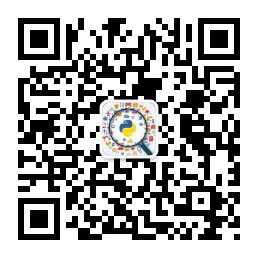
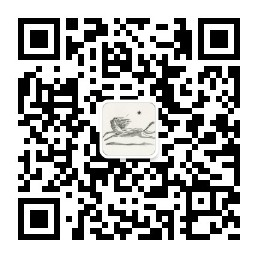
add article -20190107

Changed region(s): [[0.062, 0.062, 0.9302, 0.9302]]

diff --git a/about.html b/about.html
@@ -42,6 +42,12 @@ header-img: "img/post-bg-rwd.jpg"
     	<li><a href="mailto:turbobin.cao@gmail.com">turbobin.cao@gmail.com</a></li>
     	<li><a href="mailto:turbobin@foxmail.com">turbobin@foxmail.com</a></li>
     </ul>
+
+    <h5>More</h5>
+
+    <p>
+    	<img src="https://turbobin.github.io/img/qrcode.jpg" alt="">
+    </p>
 </div>
 
 <!-- English Version -->

diff --git a/_posts/2019-01-07-springcloud-and-eureka.md b/_posts/2019-01-07-springcloud-and-eureka.md
@@ -1,0 +1,210 @@
+---
+layout:     post
+title:      Spring Cloud 及 Eureka 注册中心
+subtitle:   
+date:       2019-01-07
+author:     turbobin
+header-img: img/post-bg-debug.jpg
+catalog: true
+tags:
+    - [微服务, spring cloud]
+---
+### 简述 ###
+Spring Cloud是微服务的“全家桶”，包含了很多的子项目，每一个子项目都是一种微服务的解决方案，它利用Spring Boot的开发风格对各种比较成熟的服务框架进行了二次封装，最终留出了一套简单易用的开发工具包。
+
+#### Spring Cloud子项目介绍 ####
+
+![]({{site.url}}/img/java/springcloud-01.png)
+#### Spring Cloud版本介绍 ####
+Spring Cloud版本并没有像Spring Boot那样采用1.x.x，2.x.x的方式，而是采用Dalston SR5、Edgware SR5、Edgware SR5这样的名称，这是因为，Spring Cloud不像Spring社区其他项目那样相对独立，它是拥有诸多子项目的大型综合项目. 可以说是对微服务架构解决方案的综合套件的组合，其包含的各个子项目也都是进行独立的更新和迭代，各自都维护自己的发布版本号.因此每一个Spring Cloud的版本都会包含多个不同版本的子项目，为了管理每一个版本的子项目清单，避免Spring Cloud的版本号与其子项目的版本号相混淆，没有采用版本号的方式，而是通过命名的方式。
+
+**各项目版本对照：**
+<table class="tableblock frame-all grid-all spread">
+<caption class="title" align="center">Table 1. Release train Spring Boot compatibility</caption>
+<colgroup>
+<col style="width: 30%;">
+<col style="width: 30%;">
+</colgroup>
+<thead>
+<tr>
+<th class="tableblock halign-left valign-top">Release Train</th>
+<th class="tableblock halign-left valign-top">Boot Version</th>
+</tr>
+</thead>
+<tbody>
+<tr>
+<td class="tableblock halign-left valign-top"><p class="tableblock">Greenwich</p></td>
+<td class="tableblock halign-left valign-top"><p class="tableblock">2.1.x</p></td>
+</tr>
+<tr>
+<td class="tableblock halign-left valign-top"><p class="tableblock">Finchley</p></td>
+<td class="tableblock halign-left valign-top"><p class="tableblock">2.0.x</p></td>
+</tr>
+<tr>
+<td class="tableblock halign-left valign-top"><p class="tableblock">Edgware</p></td>
+<td class="tableblock halign-left valign-top"><p class="tableblock">1.5.x</p></td>
+</tr>
+<tr>
+<td class="tableblock halign-left valign-top"><p class="tableblock">Dalston</p></td>
+<td class="tableblock halign-left valign-top"><p class="tableblock">1.5.x</p></td>
+</tr>
+</tbody>
+</table>
+
+<table class="tableblock frame-all grid-all spread">
+<caption class="title">Table 2. Release train contents</caption>
+<colgroup>
+<col style="width: 25%;">
+<col style="width: 20%;">
+<col style="width: 20%;">
+<col style="width: 35%;">
+</colgroup>
+<thead>
+<tr>
+<th class="tableblock halign-left valign-top">Component</th>
+<th class="tableblock halign-left valign-top">Edgware.SR5</th>
+<th class="tableblock halign-left valign-top">Finchley.SR2</th>
+<th class="tableblock halign-left valign-top">Finchley.BUILD-SNAPSHOT</th>
+</tr>
+</thead>
+<tbody>
+<tr>
+<td class="tableblock halign-left valign-top"><p class="tableblock">spring-cloud-aws</p></td>
+<td class="tableblock halign-left valign-top"><p class="tableblock">1.2.3.RELEASE</p></td>
+<td class="tableblock halign-left valign-top"><p class="tableblock">2.0.1.RELEASE</p></td>
+<td class="tableblock halign-left valign-top"><p class="tableblock">2.0.1.BUILD-SNAPSHOT</p></td>
+</tr>
+<tr>
+<td class="tableblock halign-left valign-top"><p class="tableblock">spring-cloud-bus</p></td>
+<td class="tableblock halign-left valign-top"><p class="tableblock">1.3.3.RELEASE</p></td>
+<td class="tableblock halign-left valign-top"><p class="tableblock">2.0.0.RELEASE</p></td>
+<td class="tableblock halign-left valign-top"><p class="tableblock">2.0.1.BUILD-SNAPSHOT</p></td>
+</tr>
+<tr>
+<td class="tableblock halign-left valign-top"><p class="tableblock">spring-cloud-cli</p></td>
+<td class="tableblock halign-left valign-top"><p class="tableblock">1.4.1.RELEASE</p></td>
+<td class="tableblock halign-left valign-top"><p class="tableblock">2.0.0.RELEASE</p></td>
+<td class="tableblock halign-left valign-top"><p class="tableblock">2.0.1.BUILD-SNAPSHOT</p></td>
+</tr>
+<tr>
+<td class="tableblock halign-left valign-top"><p class="tableblock">spring-cloud-commons</p></td>
+<td class="tableblock halign-left valign-top"><p class="tableblock">1.3.5.RELEASE</p></td>
+<td class="tableblock halign-left valign-top"><p class="tableblock">2.0.2.RELEASE</p></td>
+<td class="tableblock halign-left valign-top"><p class="tableblock">2.0.2.BUILD-SNAPSHOT</p></td>
+</tr>
+<tr>
+<td class="tableblock halign-left valign-top"><p class="tableblock">spring-cloud-contract</p></td>
+<td class="tableblock halign-left valign-top"><p class="tableblock">1.2.6.RELEASE</p></td>
+<td class="tableblock halign-left valign-top"><p class="tableblock">2.0.2.RELEASE</p></td>
+<td class="tableblock halign-left valign-top"><p class="tableblock">2.0.2.BUILD-SNAPSHOT</p></td>
+</tr>
+<tr>
+<td class="tableblock halign-left valign-top"><p class="tableblock">spring-cloud-config</p></td>
+<td class="tableblock halign-left valign-top"><p class="tableblock">1.4.5.RELEASE</p></td>
+<td class="tableblock halign-left valign-top"><p class="tableblock">2.0.2.RELEASE</p></td>
+<td class="tableblock halign-left valign-top"><p class="tableblock">2.0.2.BUILD-SNAPSHOT</p></td>
+</tr>
+<tr>
+<td class="tableblock halign-left valign-top"><p class="tableblock">spring-cloud-netflix</p></td>
+<td class="tableblock halign-left valign-top"><p class="tableblock">1.4.6.RELEASE</p></td>
+<td class="tableblock halign-left valign-top"><p class="tableblock">2.0.2.RELEASE</p></td>
+<td class="tableblock halign-left valign-top"><p class="tableblock">2.0.2.BUILD-SNAPSHOT</p></td>
+</tr>
+<tr>
+<td class="tableblock halign-left valign-top"><p class="tableblock">spring-cloud-security</p></td>
+<td class="tableblock halign-left valign-top"><p class="tableblock">1.2.3.RELEASE</p></td>
+<td class="tableblock halign-left valign-top"><p class="tableblock">2.0.1.RELEASE</p></td>
+<td class="tableblock halign-left valign-top"><p class="tableblock">2.0.1.BUILD-SNAPSHOT</p></td>
+</tr>
+<tr>
+<td class="tableblock halign-left valign-top"><p class="tableblock">spring-cloud-cloudfoundry</p></td>
+<td class="tableblock halign-left valign-top"><p class="tableblock">1.1.2.RELEASE</p></td>
+<td class="tableblock halign-left valign-top"><p class="tableblock">2.0.1.RELEASE</p></td>
+<td class="tableblock halign-left valign-top"><p class="tableblock">2.0.1.BUILD-SNAPSHOT</p></td>
+</tr>
+<tr>
+<td class="tableblock halign-left valign-top"><p class="tableblock">spring-cloud-consul</p></td>
+<td class="tableblock halign-left valign-top"><p class="tableblock">1.3.5.RELEASE</p></td>
+<td class="tableblock halign-left valign-top"><p class="tableblock">2.0.1.RELEASE</p></td>
+<td class="tableblock halign-left valign-top"><p class="tableblock">2.0.2.BUILD-SNAPSHOT</p></td>
+</tr>
+<tr>
+<td class="tableblock halign-left valign-top"><p class="tableblock">spring-cloud-sleuth</p></td>
+<td class="tableblock halign-left valign-top"><p class="tableblock">1.3.5.RELEASE</p></td>
+<td class="tableblock halign-left valign-top"><p class="tableblock">2.0.2.RELEASE</p></td>
+<td class="tableblock halign-left valign-top"><p class="tableblock">2.0.2.BUILD-SNAPSHOT</p></td>
+</tr>
+<tr>
+<td class="tableblock halign-left valign-top"><p class="tableblock">spring-cloud-stream</p></td>
+<td class="tableblock halign-left valign-top"><p class="tableblock">Ditmars.SR4</p></td>
+<td class="tableblock halign-left valign-top"><p class="tableblock">Elmhurst.SR1</p></td>
+<td class="tableblock halign-left valign-top"><p class="tableblock">Elmhurst.BUILD-SNAPSHOT</p></td>
+</tr>
+<tr>
+<td class="tableblock halign-left valign-top"><p class="tableblock">spring-cloud-zookeeper</p></td>
+<td class="tableblock halign-left valign-top"><p class="tableblock">1.2.2.RELEASE</p></td>
+<td class="tableblock halign-left valign-top"><p class="tableblock">2.0.0.RELEASE</p></td>
+<td class="tableblock halign-left valign-top"><p class="tableblock">2.0.1.BUILD-SNAPSHOT</p></td>
+</tr>
+<tr>
+<td class="tableblock halign-left valign-top"><p class="tableblock">spring-boot</p></td>
+<td class="tableblock halign-left valign-top"><p class="tableblock">1.5.16.RELEASE</p></td>
+<td class="tableblock halign-left valign-top"><p class="tableblock">2.0.6.RELEASE</p></td>
+<td class="tableblock halign-left valign-top"><p class="tableblock">2.0.7.BUILD-SNAPSHOT</p></td>
+</tr>
+<tr>
+<td class="tableblock halign-left valign-top"><p class="tableblock">spring-cloud-task</p></td>
+<td class="tableblock halign-left valign-top"><p class="tableblock">1.2.3.RELEASE</p></td>
+<td class="tableblock halign-left valign-top"><p class="tableblock">2.0.0.RELEASE</p></td>
+<td class="tableblock halign-left valign-top"><p class="tableblock">2.0.1.BUILD-SNAPSHOT</p></td>
+</tr>
+<tr>
+<td class="tableblock halign-left valign-top"><p class="tableblock">spring-cloud-vault</p></td>
+<td class="tableblock halign-left valign-top"><p class="tableblock">1.1.2.RELEASE</p></td>
+<td class="tableblock halign-left valign-top"><p class="tableblock">2.0.2.RELEASE</p></td>
+<td class="tableblock halign-left valign-top"><p class="tableblock">2.0.2.BUILD-SNAPSHOT</p></td>
+</tr>
+<tr>
+<td class="tableblock halign-left valign-top"><p class="tableblock">spring-cloud-gateway</p></td>
+<td class="tableblock halign-left valign-top"><p class="tableblock">1.0.2.RELEASE</p></td>
+<td class="tableblock halign-left valign-top"><p class="tableblock">2.0.2.RELEASE</p></td>
+<td class="tableblock halign-left valign-top"><p class="tableblock">2.0.2.BUILD-SNAPSHOT</p></td>
+</tr>
+<tr>
+<td class="tableblock halign-left valign-top"><p class="tableblock">spring-cloud-openfeign</p></td>
+<td class="tableblock halign-left valign-top"></td>
+<td class="tableblock halign-left valign-top"><p class="tableblock">2.0.2.RELEASE</p></td>
+<td class="tableblock halign-left valign-top"><p class="tableblock">2.0.2.BUILD-SNAPSHOT</p></td>
+</tr>
+<tr>
+<td class="tableblock halign-left valign-top"><p class="tableblock">spring-cloud-function</p></td>
+<td class="tableblock halign-left valign-top"><p class="tableblock">1.0.1.RELEASE</p></td>
+<td class="tableblock halign-left valign-top"><p class="tableblock">1.0.0.RELEASE</p></td>
+<td class="tableblock halign-left valign-top"><p class="tableblock">1.0.1.BUILD-SNAPSHOT</p></td>
+</tr>
+</tbody>
+</table>
+
+>Finchley builds and works with Spring Boot 2.0.x, and is not expected to work with Spring Boot 1.5.x.  
+Note: The Dalston release train will reach end-of-life in December 2018. Edgware will follow the end-of-life cycle of Spring Boot 1.5.x.  
+The Dalston and Edgware release trains build on Spring Boot 1.5.x, and are not expected to work with Spring Boot 2.0.x.
+
+从官网介绍可知，基于Spring Boot 2.0.x的Spring Cloud只能用Finchley版本，Spring Boot 1.5.x只能用Spring Cloud Dalston和Edgware版本。
+当前最新稳定版本：
+![]({{site.url}}/img/java/springcloud-02.png)
+
+### Eureka 注册中心 ###
+Spring Cloud提供了多种注册中心的支持，如：Eureka、ZooKeeper等。官方推荐使用Eureka。
+Spring Cloud Eureka是Spring Cloud Netflix微服务套件中的一部分，它基于Netflix Eureka做了二次封装。主要负责完成微服务架构中的服务治理功能。
+原理图如下：
+![]({{site.url}}/img/java/eureka-01.png)
+
+Eureka包含两个组件：Eureka Server和Eureka Client。
+* Eureka Server提供服务注册服务，各个节点启动后，会在Eureka Server中进行注册，这样EurekaServer中的服务注册表中将会存储所有可用服务节点的信息，服务节点的信息可以在界面中直观的看到。
+* Eureka Client是一个java客户端，用于简化与Eureka Server的交互在应用启动后，将会向Eureka Server发送心跳,默认周期为30秒，如果Eureka Server在多个心跳周期内没有接收到某个节点的心跳，Eureka Server将会从服务注册表中把这个服务节点移除(默认90秒)。
+
+Eureka Server之间通过复制的方式完成数据的同步，Eureka还提供了客户端缓存机制，即使所有的Eureka Server都挂掉，客户端依然可以利用缓存中的信息消费其他服务的API。综上，Eureka通过心跳检查、客户端缓存等机制，确保了系统的高可用性、灵活性和可伸缩性。
+
+
+
+>写技术博客不易，转载请注明出处，附上本原文链接, 谢谢合作。
